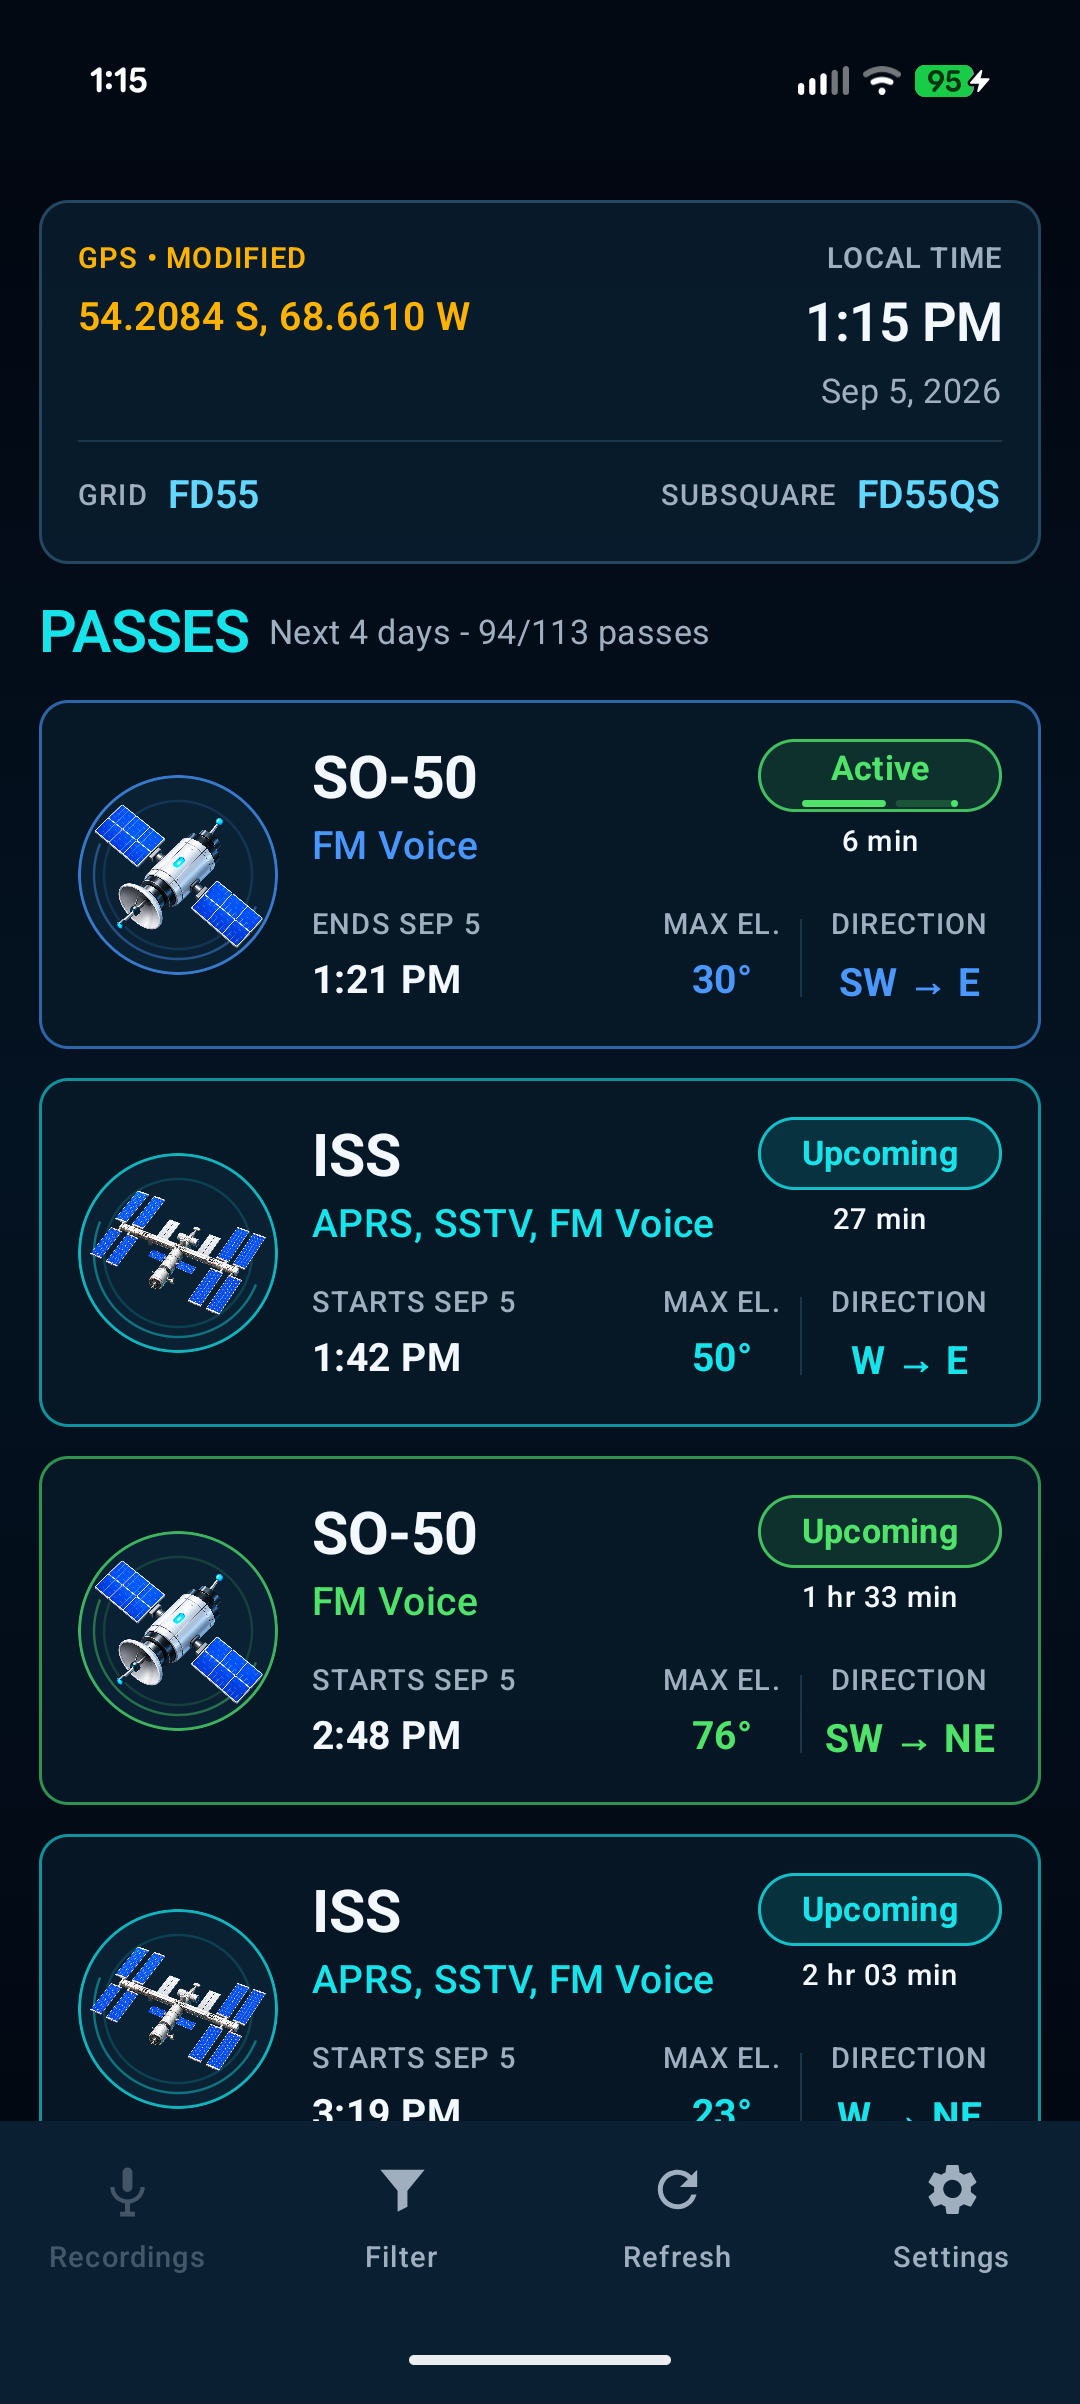
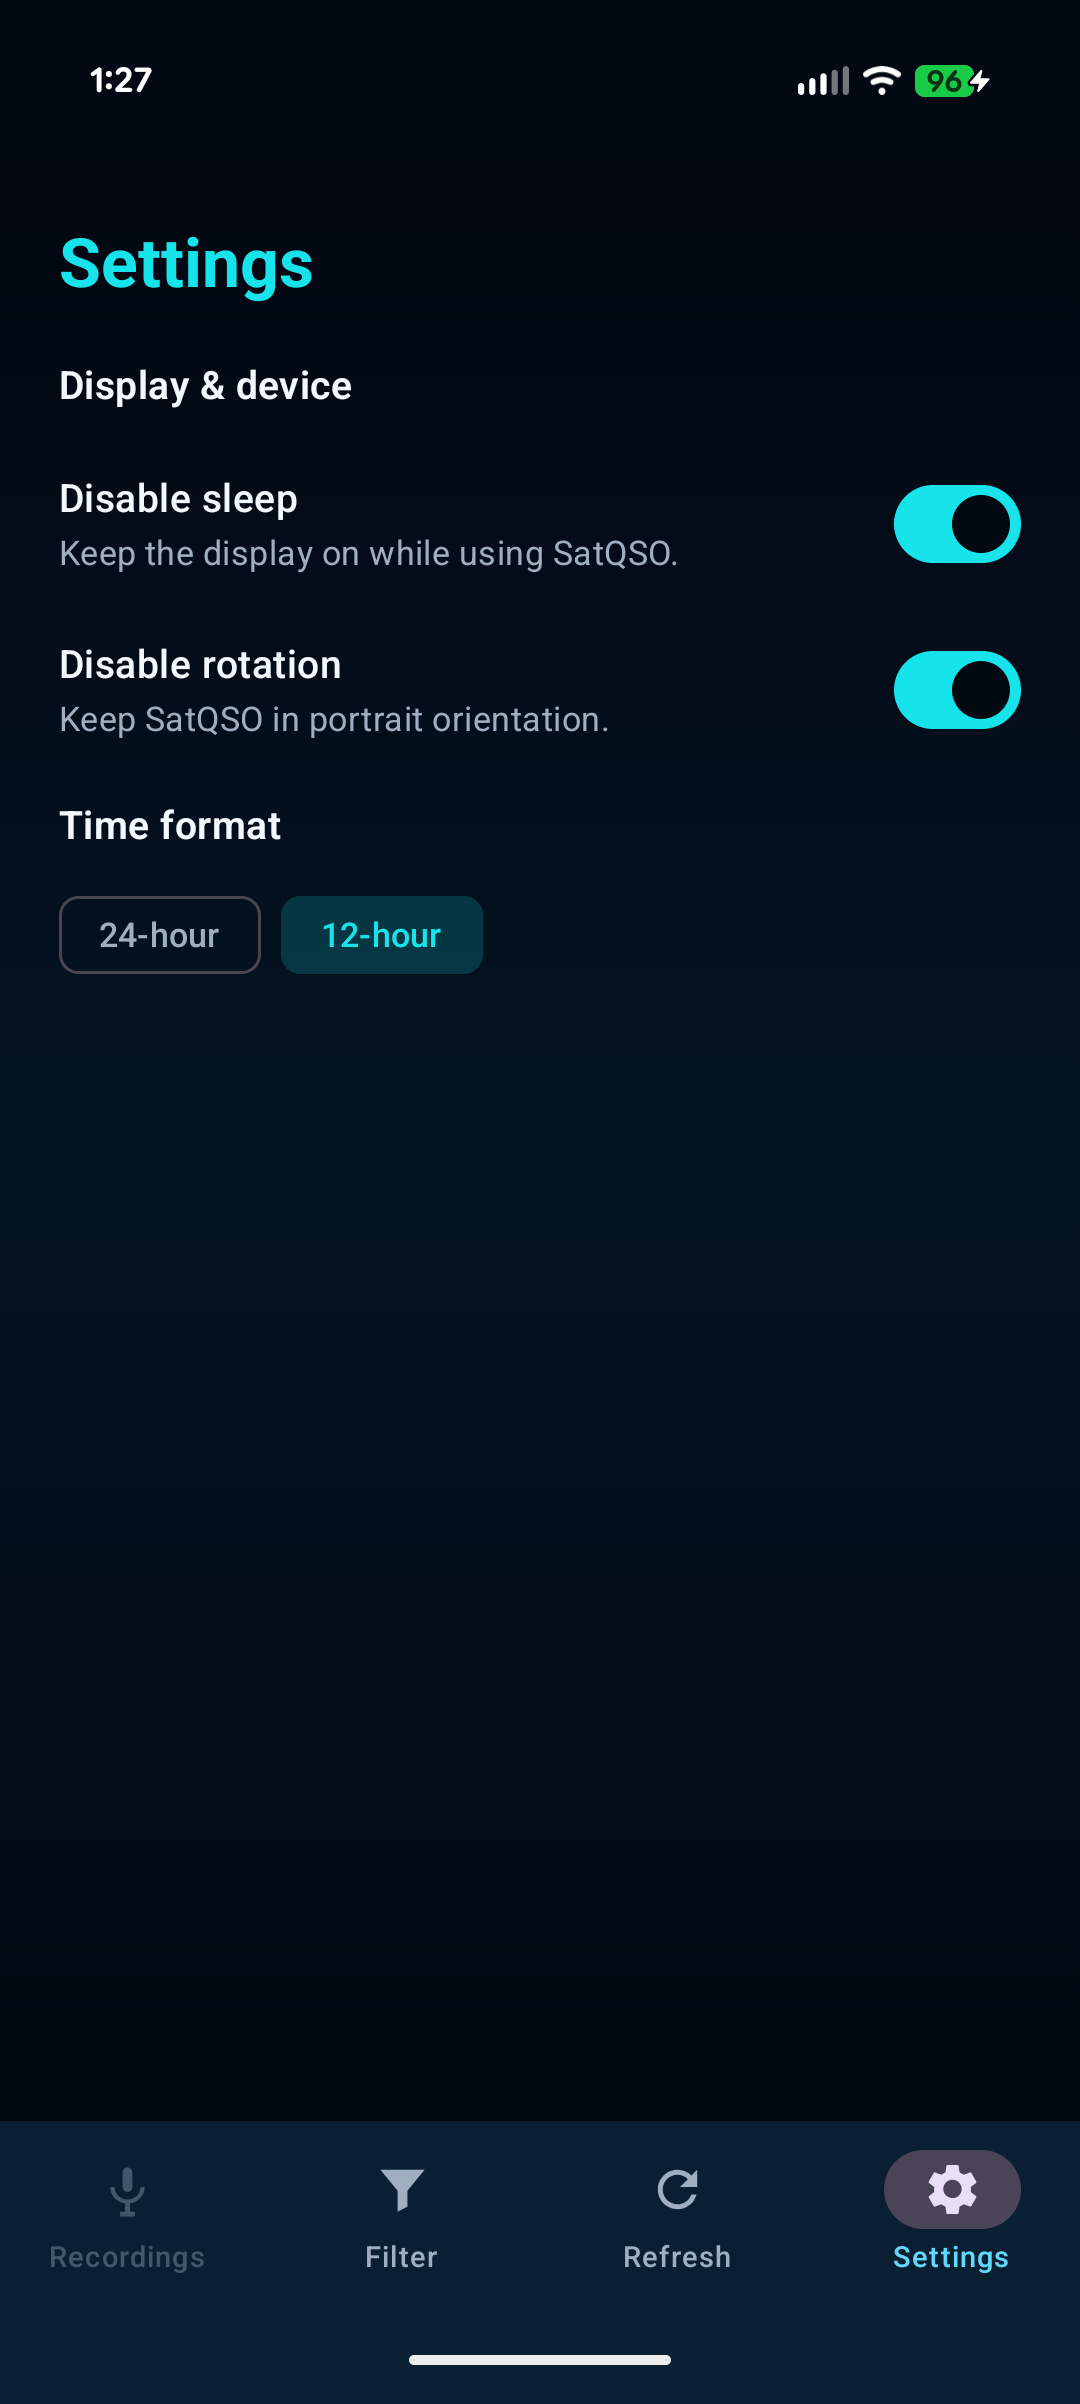
Fix Settings screenshot and thumbnail

diff --git a/README.md b/README.md
@@ -40,7 +40,7 @@ SatQSO is an Android pass planner for amateur-radio satellites. It calculates pa
 
 ### Settings
 
-[![Settings](docs/screenshots/settings-thumb-new.png)](docs/screenshots/settings.png)
+[![Settings](docs/screenshots/settings-thumb.png)](docs/screenshots/settings.png)
 
 ## Install
 
